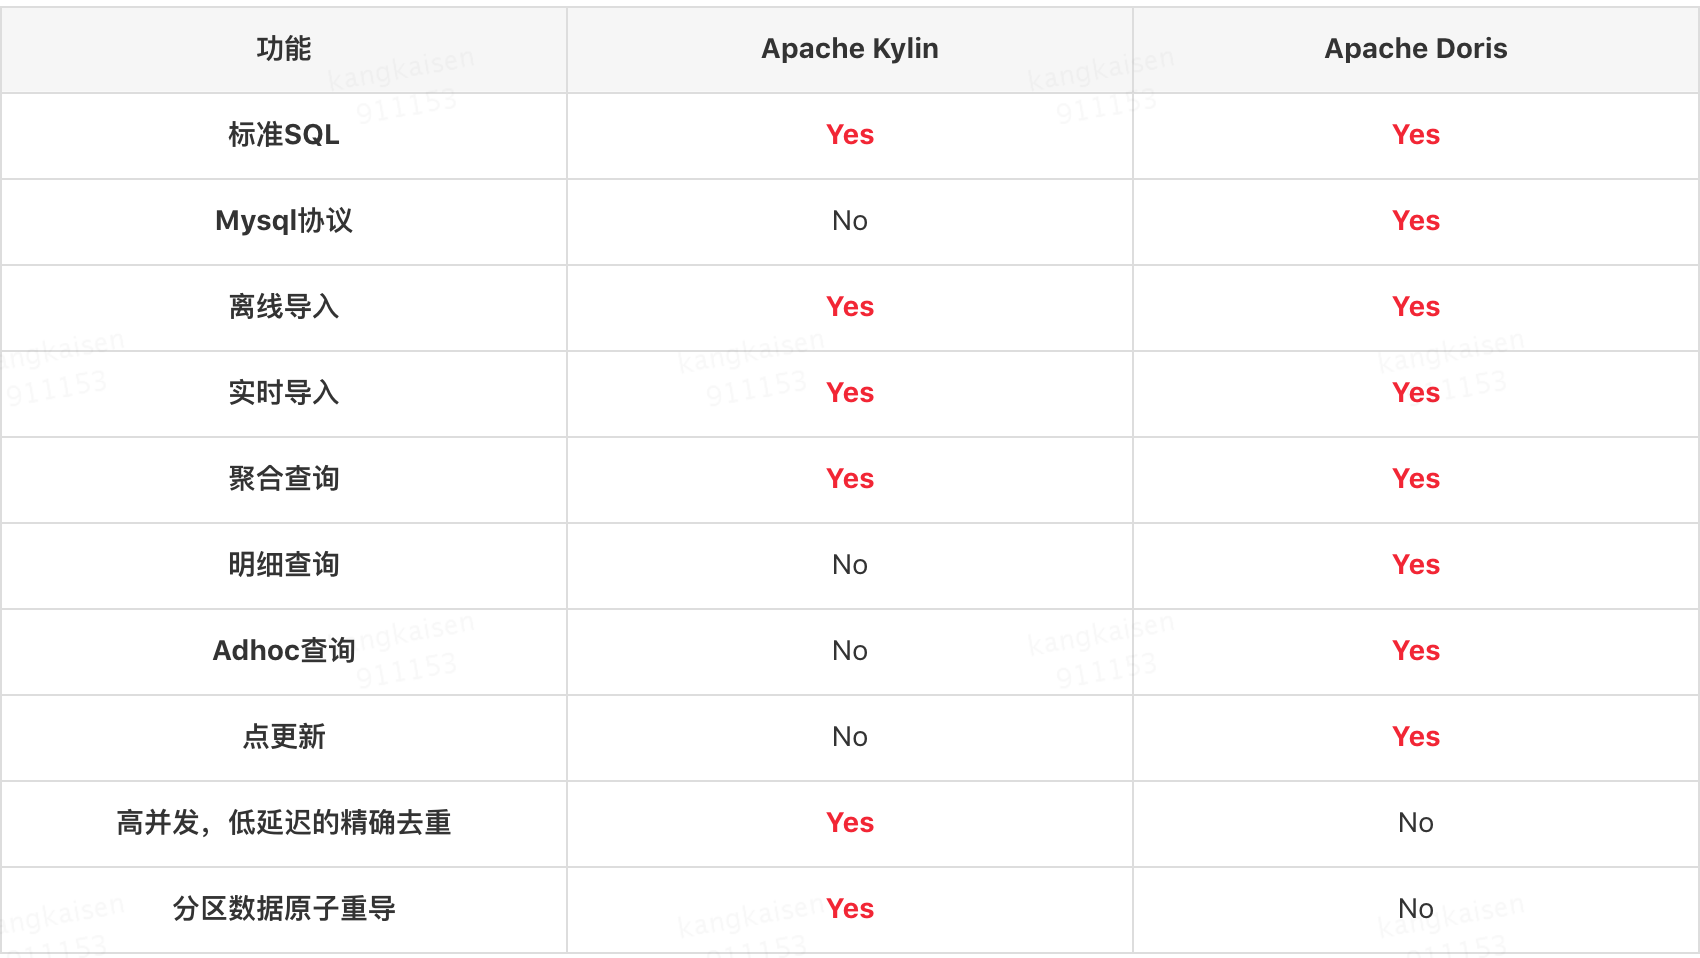
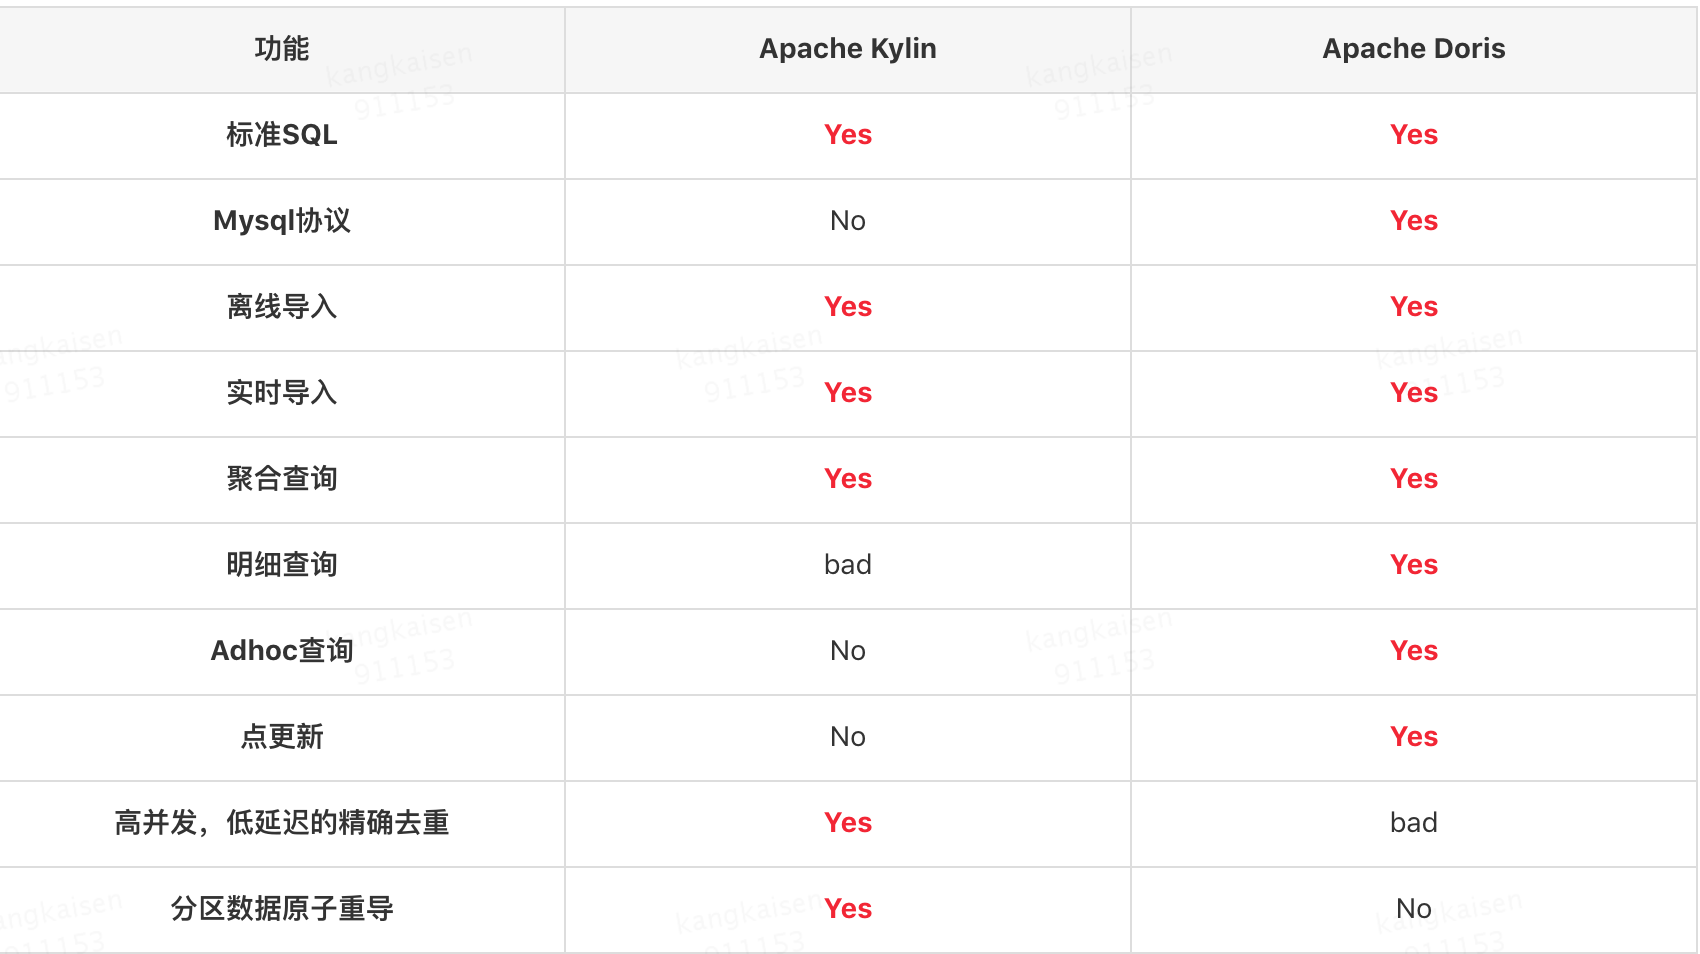
udpate image

diff --git a/public/post/apache-kylin-vs-baidu-palo.html b/public/post/apache-kylin-vs-baidu-palo.html
@@ -281,7 +281,7 @@ select count(*) from (select count(*) from ssb_sf20.v2_lineorder group by lo_ord
 <li>linked schema change: 无需转换数据，直接完成。对于历史数据不会重刷，新摄入的数据都按照新的Schema处理，对于旧数据，新加列的值直接用对应数据类型的默认值填充。例如加列操作。Druid也支持这种做法。</li>
 </ul>
 <h2 id="12-功能">12 功能</h2>
-<p><img src="media/15545480639031/%E5%B1%8F%E5%B9%95%E5%BF%AB%E7%85%A7%202019-04-06%20%E4%B8%8B%E5%8D%887.21.49.png" alt="Apache Kylin VS Apache Doris"></p>
+<p><img src="media/15545480639031/kylin-doris.png" alt="Apache Kylin VS Apache Doris"></p>
 <p>注： 关于Kylin的明细查询，Kylin本身只有聚合模型，但是也可以<strong>通过将所有列作为维度列，只构建Base Cuboid来实现明细查询</strong>， 缺点是效率比较低下。</p>
 <p>注： 虽然Doirs理论上可以同时支持高并发，低延迟的OLAP查询和高吞吐的Adhoc查询，但显然这两类查询会相互影响。所以Baidu在实际应用中也是用两个集群分别满足OLAP查询和Adhoc查询需求。</p>
 <h2 id="13-社区和生态">13 社区和生态</h2>
